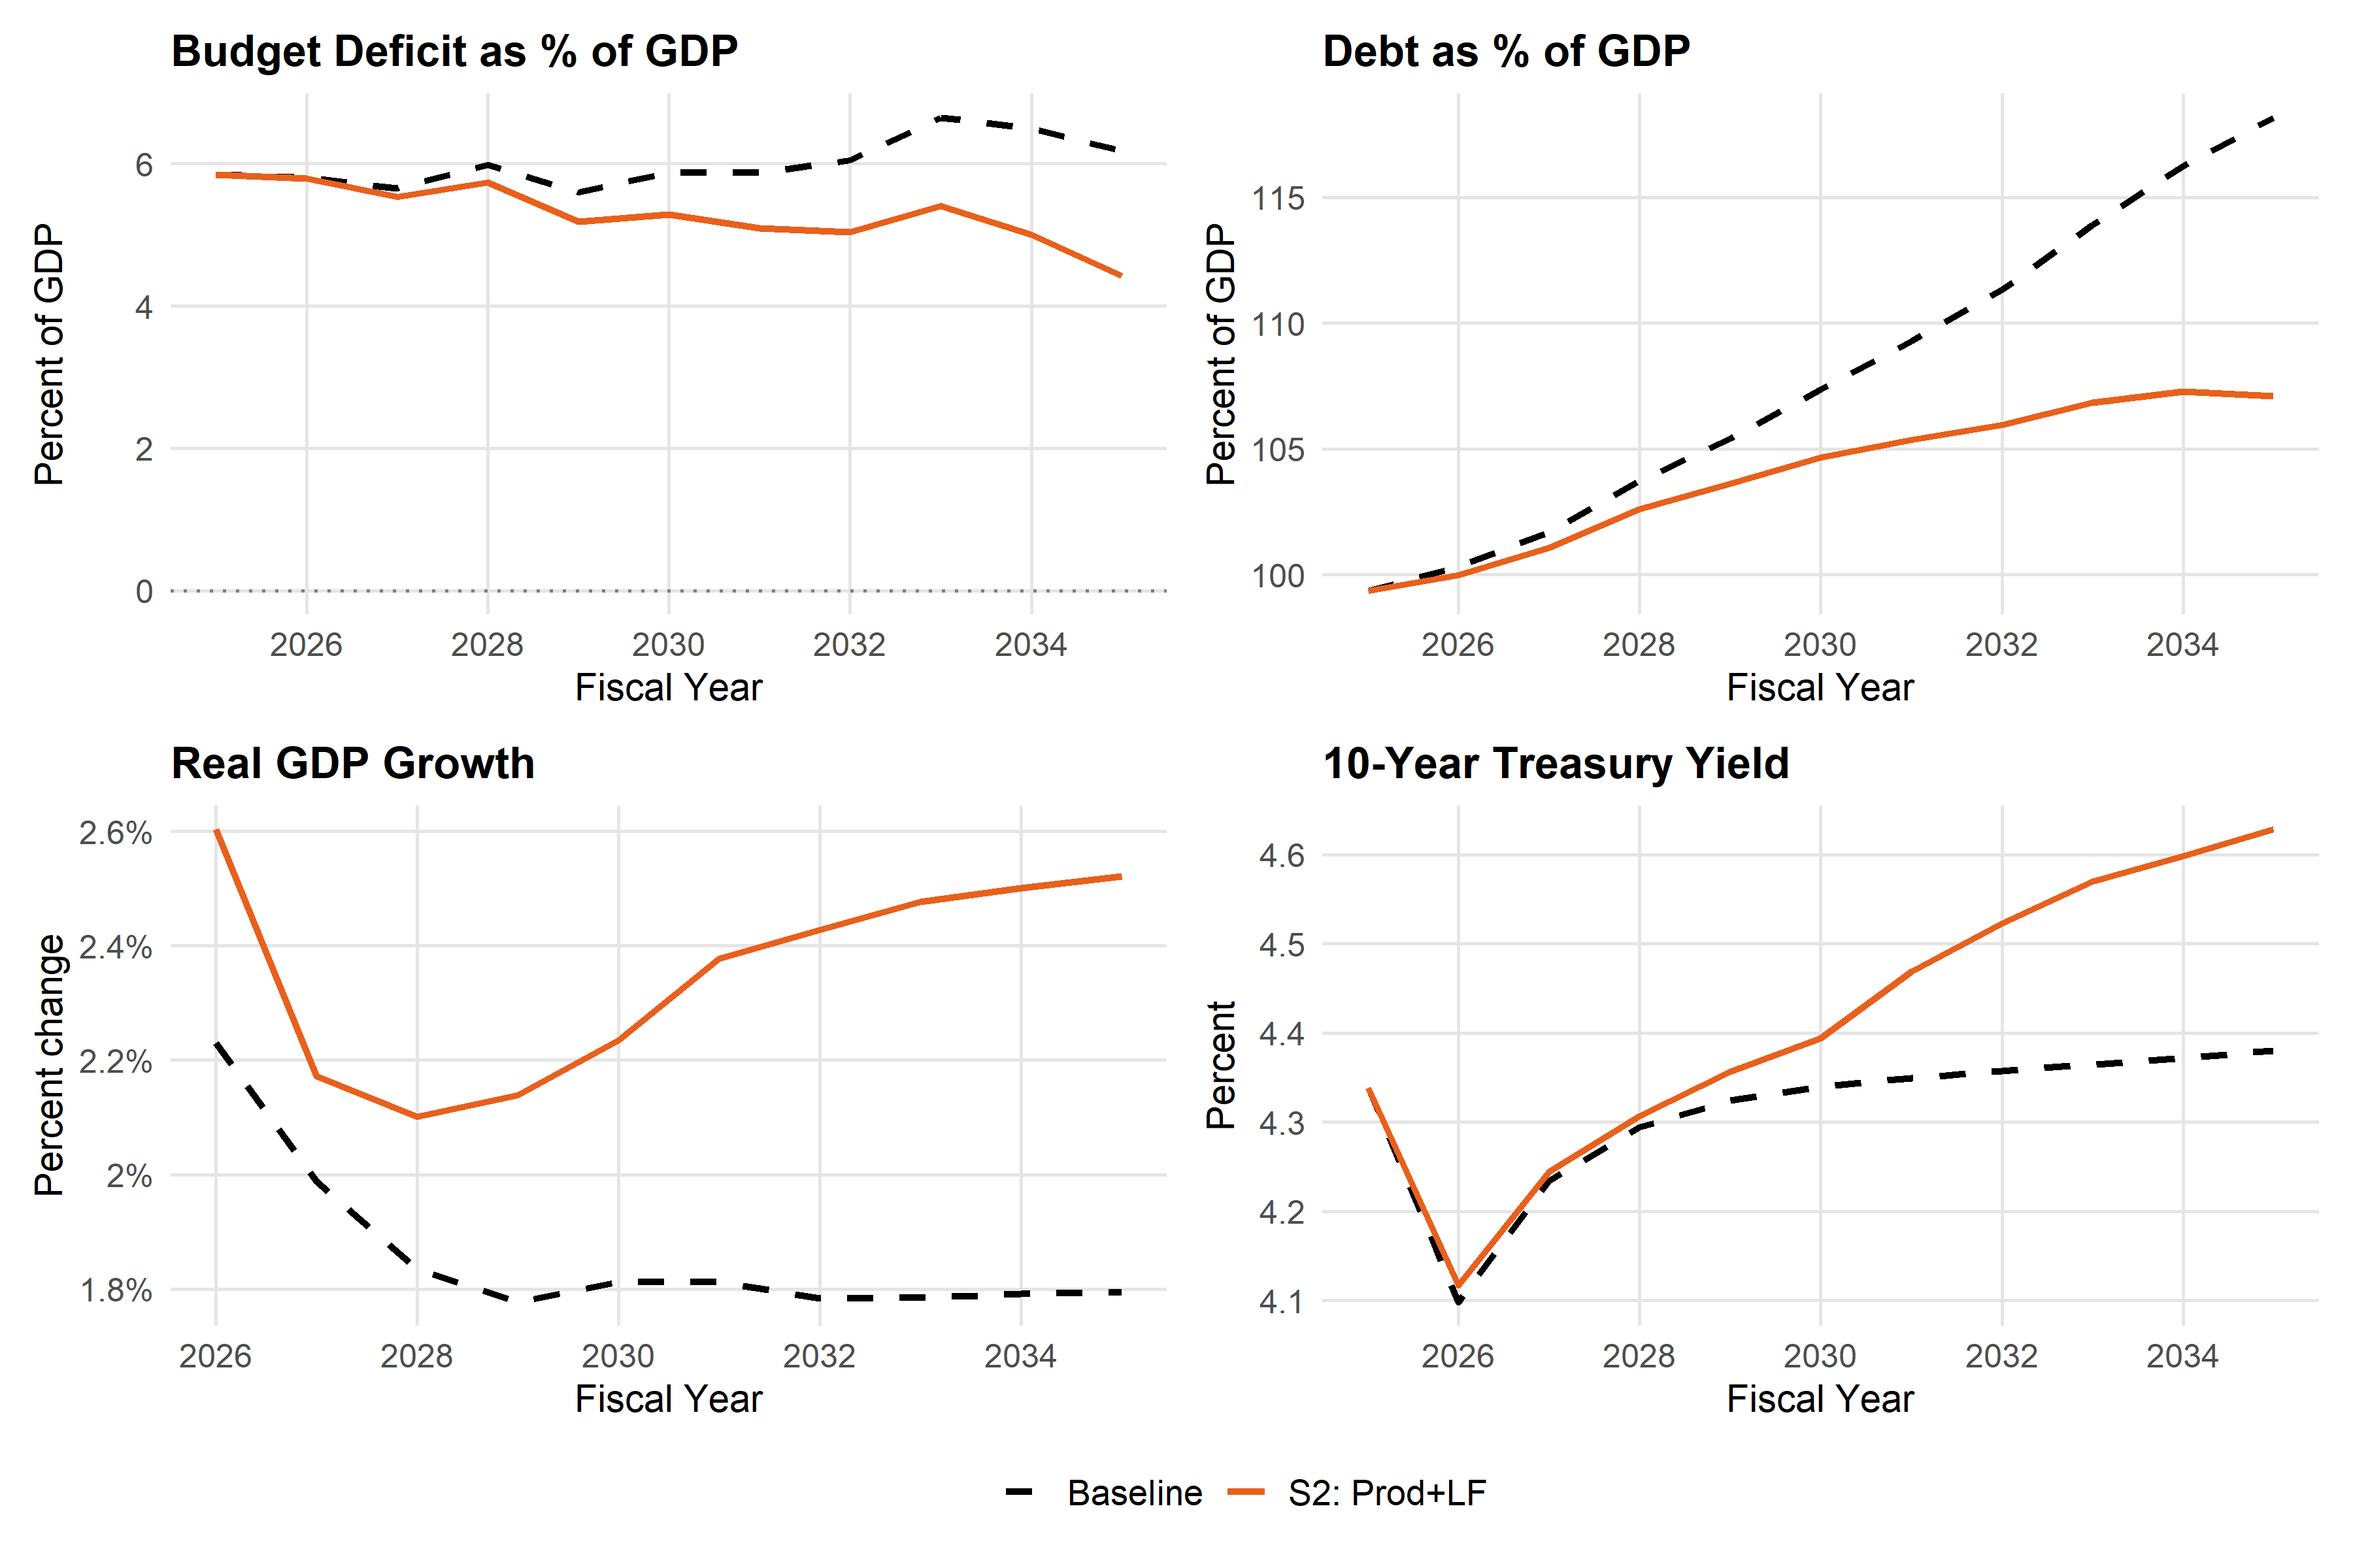
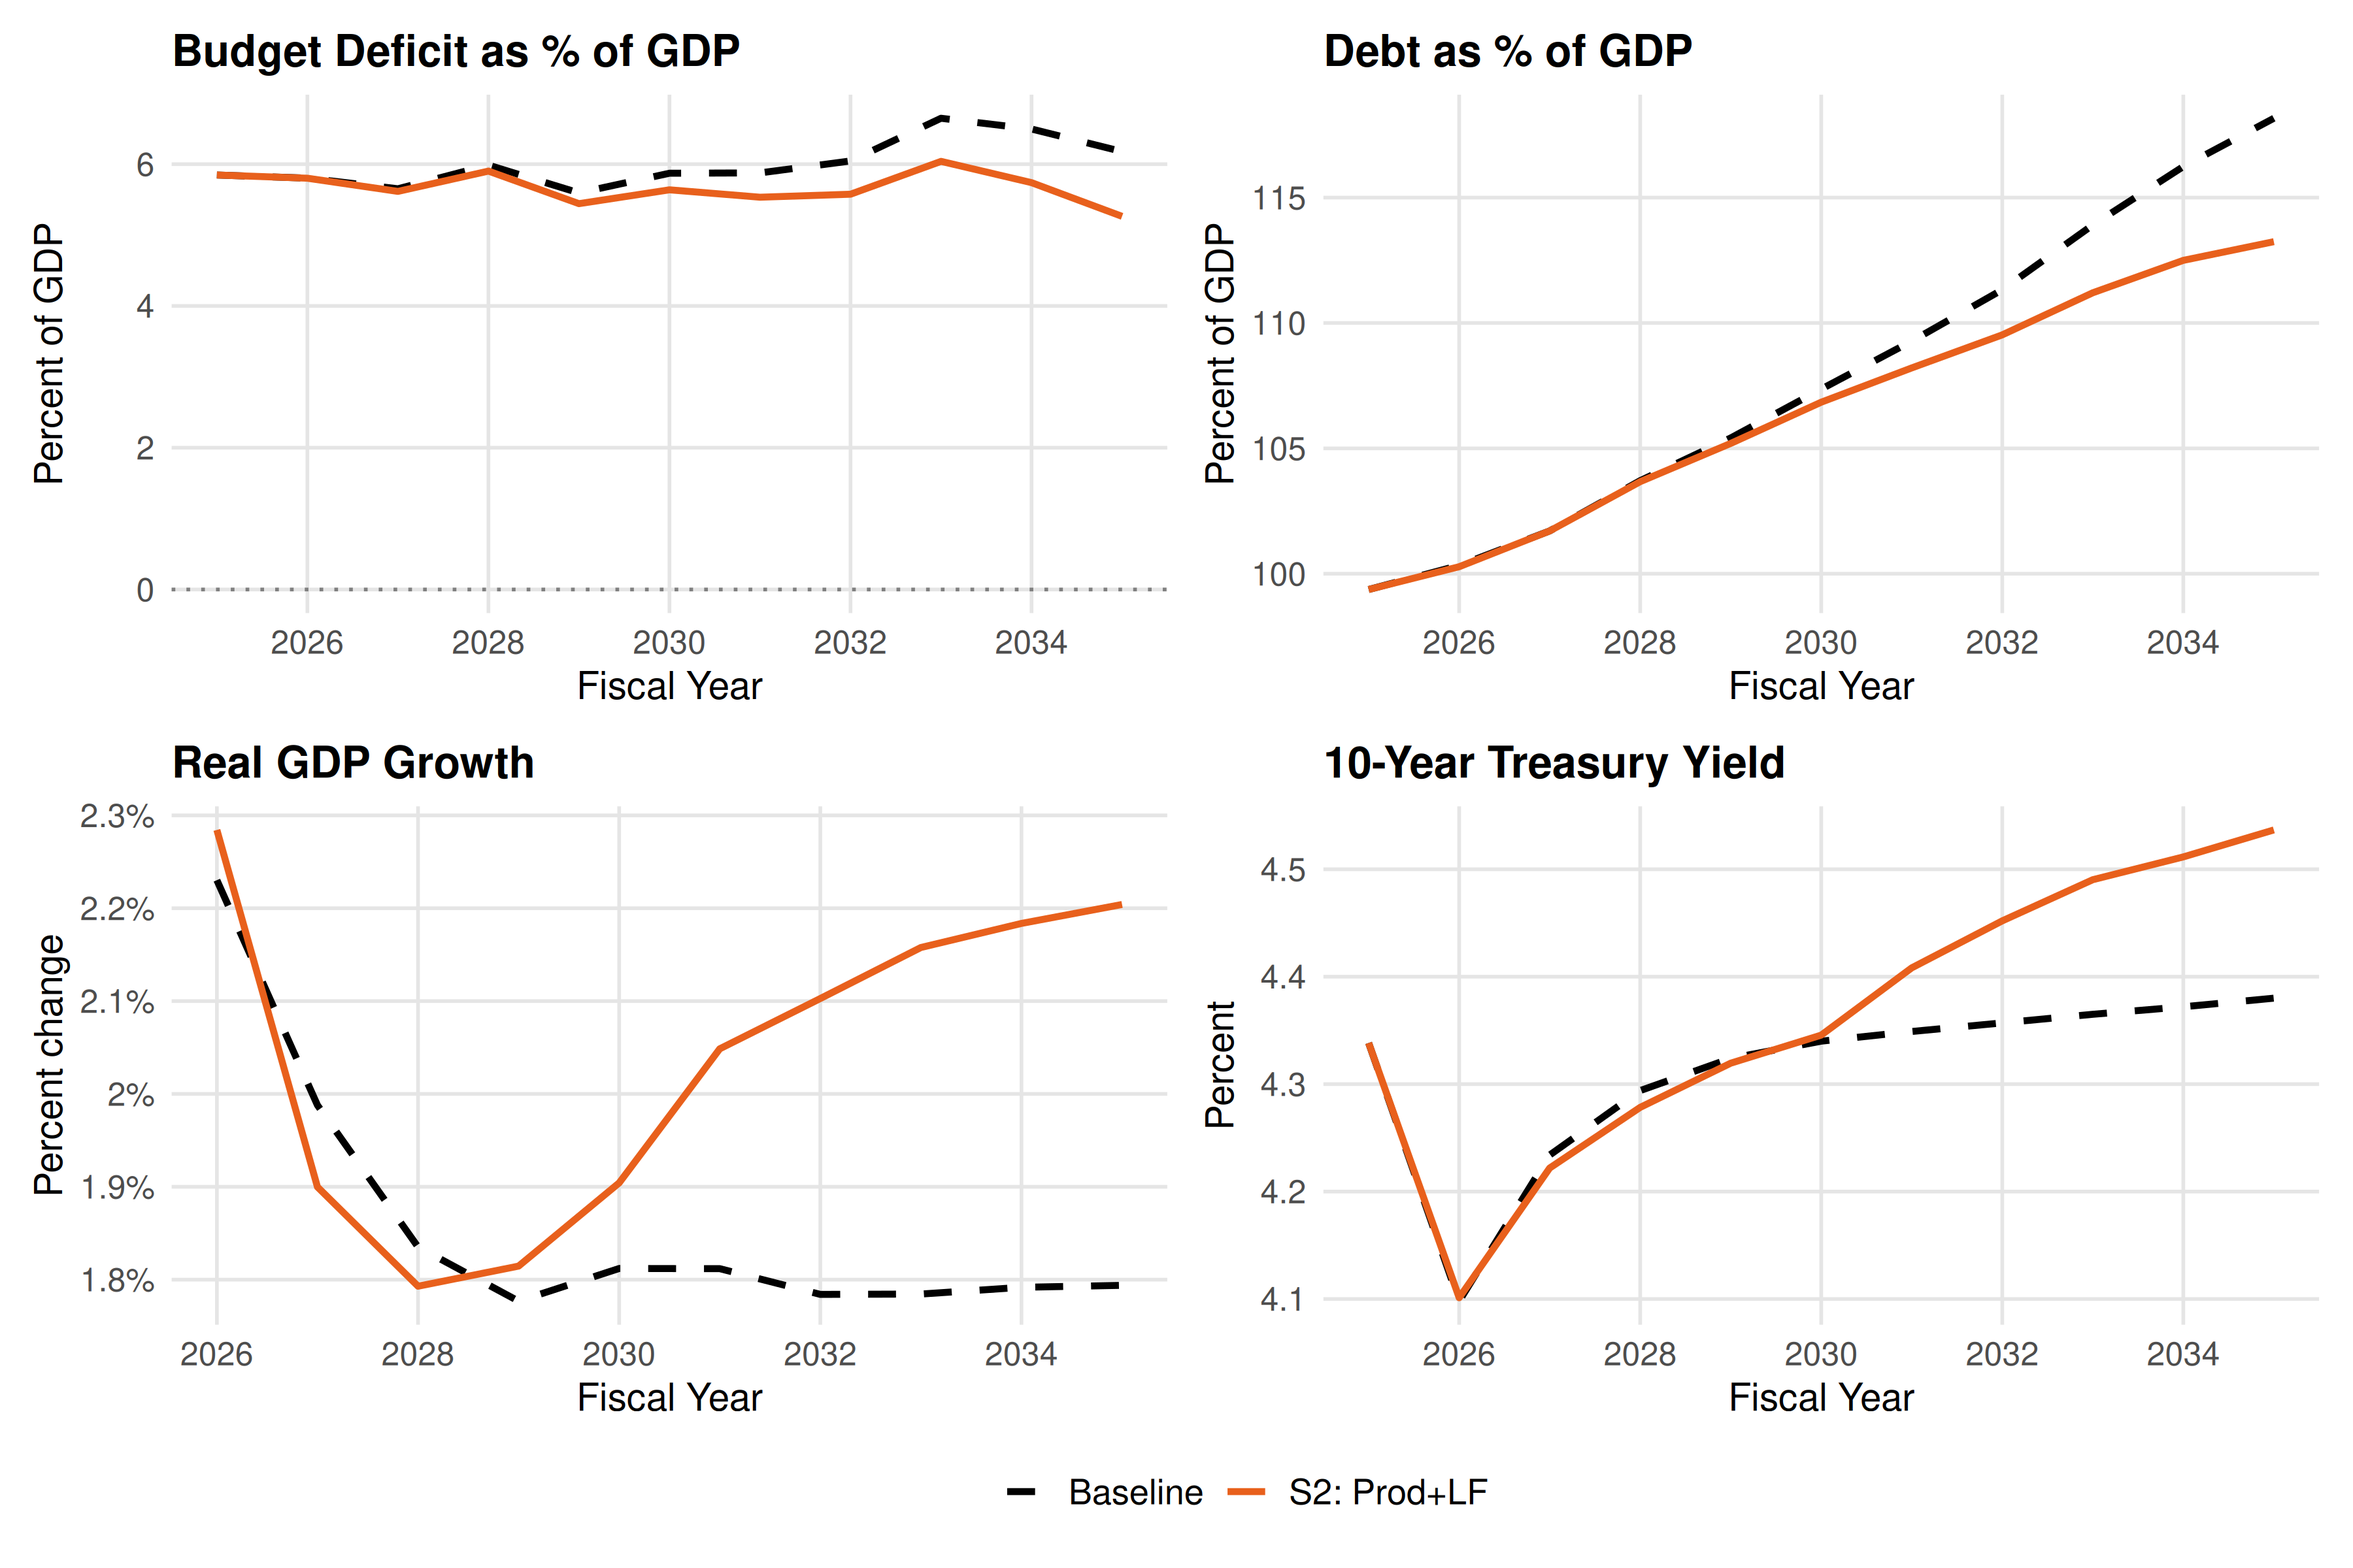
Regenerate stale AI scenario results and fix preset docs
The committed AI results CSVs/RDS and article figures were last
generated before the NFB-to-GDP/employed wedge correction (75fa756),
so they showed the old, larger productivity effects (e.g. S2 FY2035
debt of 107.1% of GDP vs the correct 113.2%). Regenerate the four AI
scenario results and affected figures at current inputs; regenerated
series match the published article data downloads exactly.

Also update the app README preset description: the AI Adoption preset
loads scenario S2 (ai_s2_prod_lf.R: productivity + labor force, no
outlay change), not the pre-April flat calibration.

diff --git a/docs/README_App.md b/docs/README_App.md
@@ -54,7 +54,7 @@ The app will open in your default web browser.
 - The simulation horizon is fixed at 10 years (FY2026-FY2035)
 
 **3. Preset Scenarios** (3 buttons)
-- Quick-load common policy scenarios: Rapid AI Adoption, Persistent Inflation, Higher Defense Spending
+- Quick-load common policy scenarios: AI Adoption, Persistent Inflation, Higher Defense Spending
 - One-click setup for standard analyses
 
 **4. Input Tables** (9 collapsible panels)
@@ -390,9 +390,10 @@ Each deviation chart tab also shows calculated multipliers:
 
 3 one-click scenarios for common policy analyses:
 
-### 1. Rapid AI Adoption
-- Applies the AI productivity, labor force, and outlay assumptions used in the shipped rapid-adoption scenario set
-- Tests medium-term growth, labor supply, and fiscal effects from accelerated AI diffusion
+### 1. AI Adoption
+- Loads scenario S2 (Productivity + Labor Force) from the AI article, via `scenarios/inputs/ai_s2_prod_lf.R`: the Karger et al. moderate-adoption productivity boost plus the labor-force participation decline
+- No outlay change; the outlay-increase variants are S3/S4 (`ai_s3a_prod_lf_ui.R`, `ai_s3b_prod_lf_ssmc.R`)
+- Tests medium-term growth, labor supply, and fiscal effects from AI diffusion
 - Useful starting point for the AI article scenarios
 
 ### 2. Persistent Inflation
